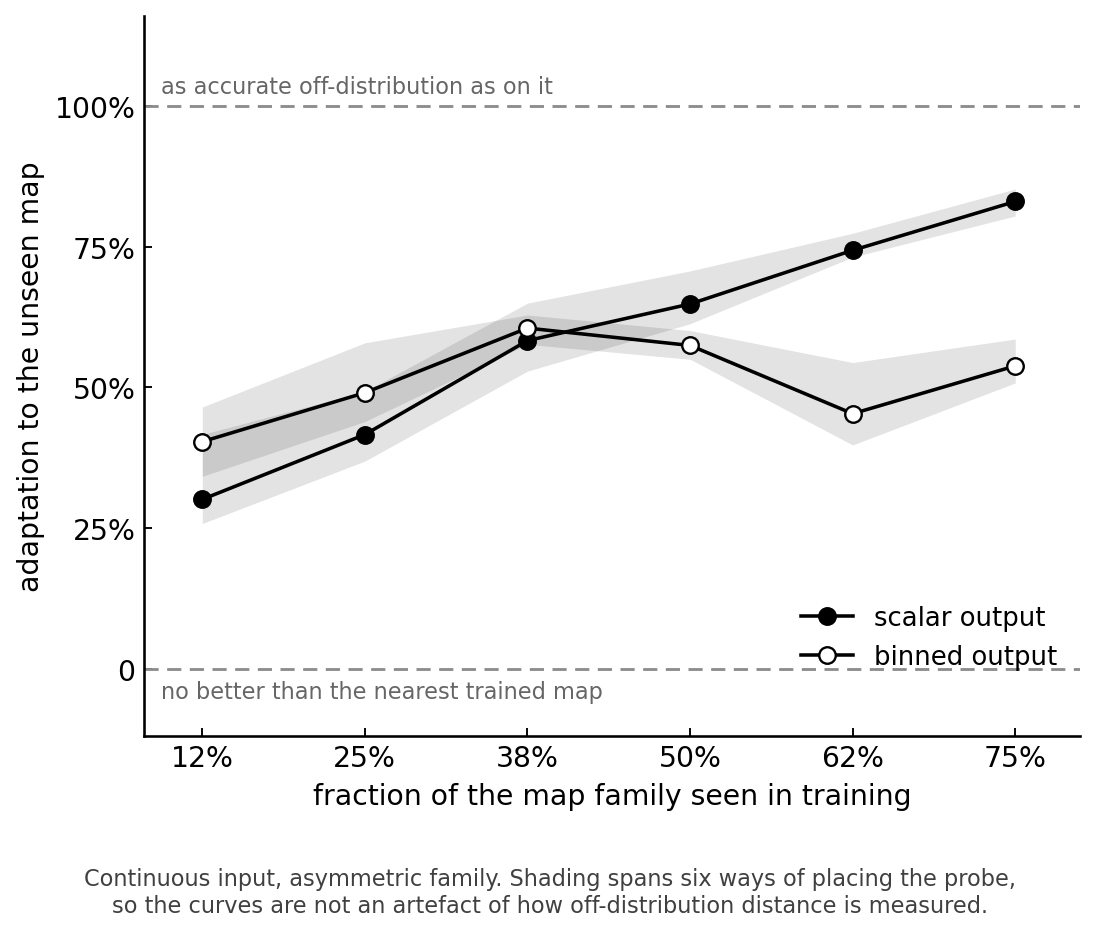
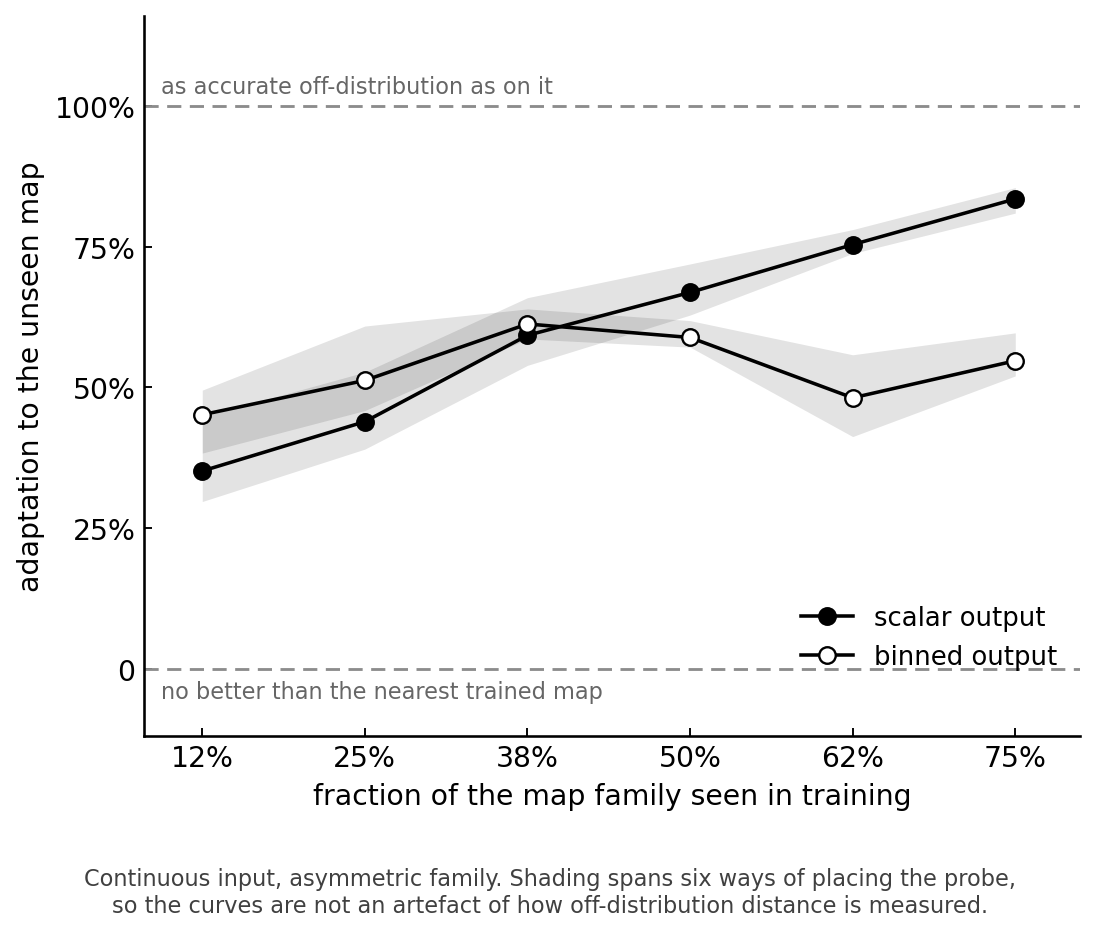
Average the clamping baseline over every evaluated R, not every sixth
The clamp subsampled the R grid by six for cost while the model and in-band
errors used all 45 values above 0.25. The subsample is biased low, and unevenly:
6.3% at the narrowest band against 2.1% at the widest, which flattered the slope
because clamp enters both terms of the adaptation ratio. A full-R clamp costs
0.16 s, so there was no reason for the shortcut.

Adaptation moves by at most five points, all at the narrow end -- the scalar arm
now reads 35% -> 84% rather than 30% -> 83%, so a slightly gentler climb to the
same place. The measured null drift in the coordinate diagnostic drops from 49%
to 44% for the parameter coordinate and from 13% to 10% for map space; part of
what was attributed to the coordinate was this bias. Neither conclusion changes.

Changed region(s): [[0.155, 0.2173, 0.9298, 0.5589]]

diff --git a/scripts/plot_adaptation_fig3_sigma.py b/scripts/plot_adaptation_fig3_sigma.py
@@ -57,7 +57,7 @@ def series(mode, coord):
         keep = z["R_grid"] >= 0.25
         edge = float(z["band_lo"])
         curve = np.nanmean(z["implied_rms"][:, keep], axis=1)   # RMS vs alpha
-        Rs = z["R_grid"][keep][::6]
+        Rs = z["R_grid"][keep]
         if coord == "param":
             x, probe = float(z["band_width"]), edge - 0.2
         elif coord == "sigma":
@@ -69,7 +69,7 @@ def series(mode, coord):
                            edge - 1e-3, xtol=1e-4)
         # implied_rms is smooth in alpha, so read the probe off by interpolation
         model = float(np.interp(probe, z["p_grid"], curve))
-        out.append((x, model, clamp(probe, edge, z["R_grid"][keep][::6]), probe))
+        out.append((x, model, clamp(probe, edge, z["R_grid"][keep]), probe))
     return list(zip(*out))
 
 

diff --git a/scripts/plot_adaptation_simple.py b/scripts/plot_adaptation_simple.py
@@ -37,7 +37,7 @@ from src.mapmetric import sigma_mu_of, param_of_sigma_mu
 
 SPAN = 0.8                     # usable alpha range, [0.2, 1.0]
 RS = np.linspace(0.125, 1.0, 60)
-RS = RS[RS >= 0.25][::6]
+RS = RS[RS >= 0.25]          # every R in the evaluated range, not a subsample
 
 
 def orbit(a, R, n=30, traj=150, burn=50, seed=3):
